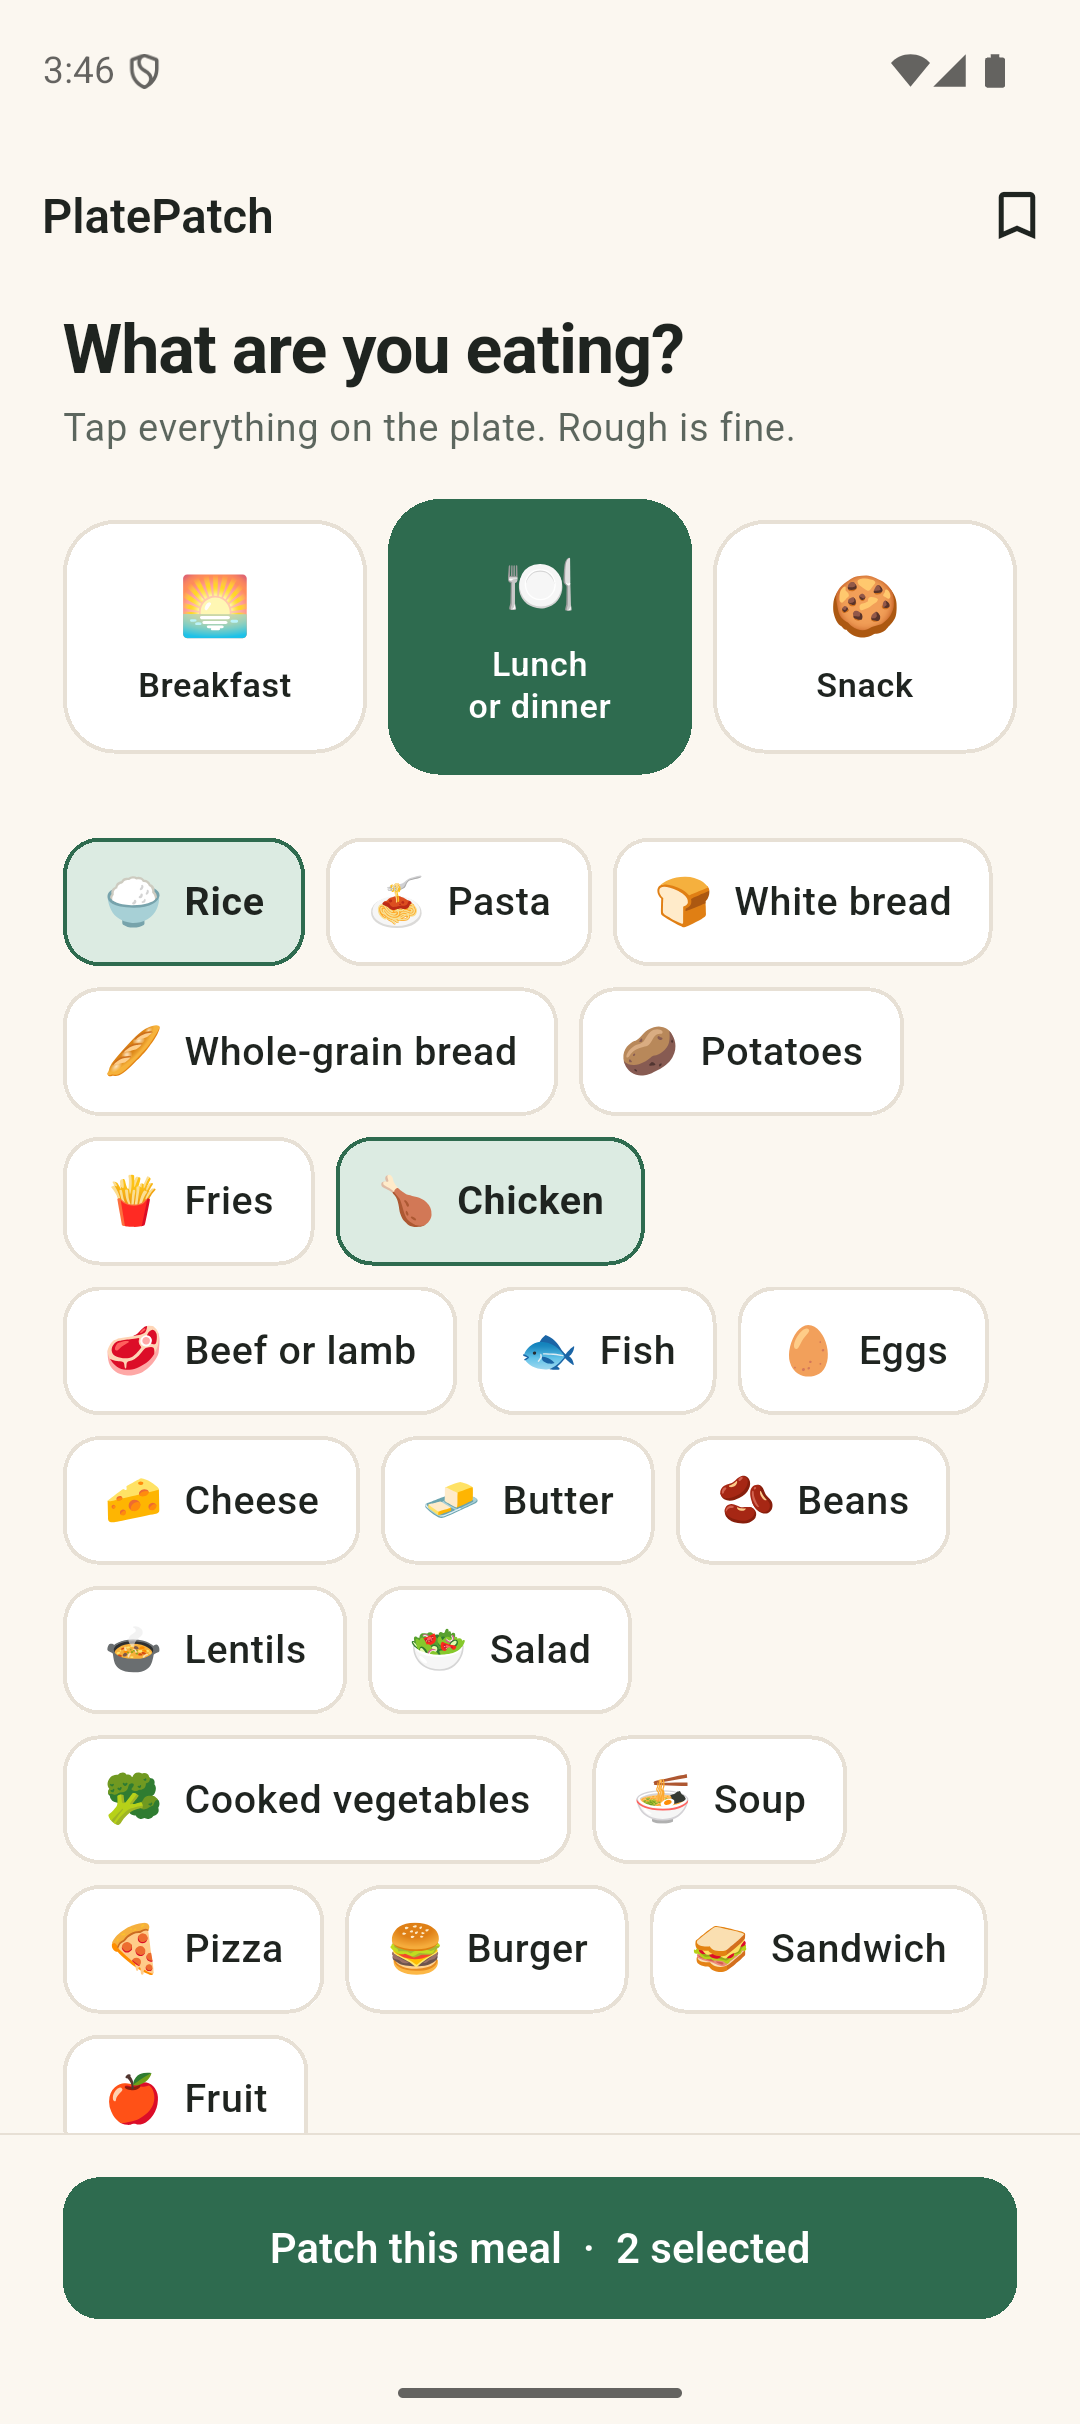
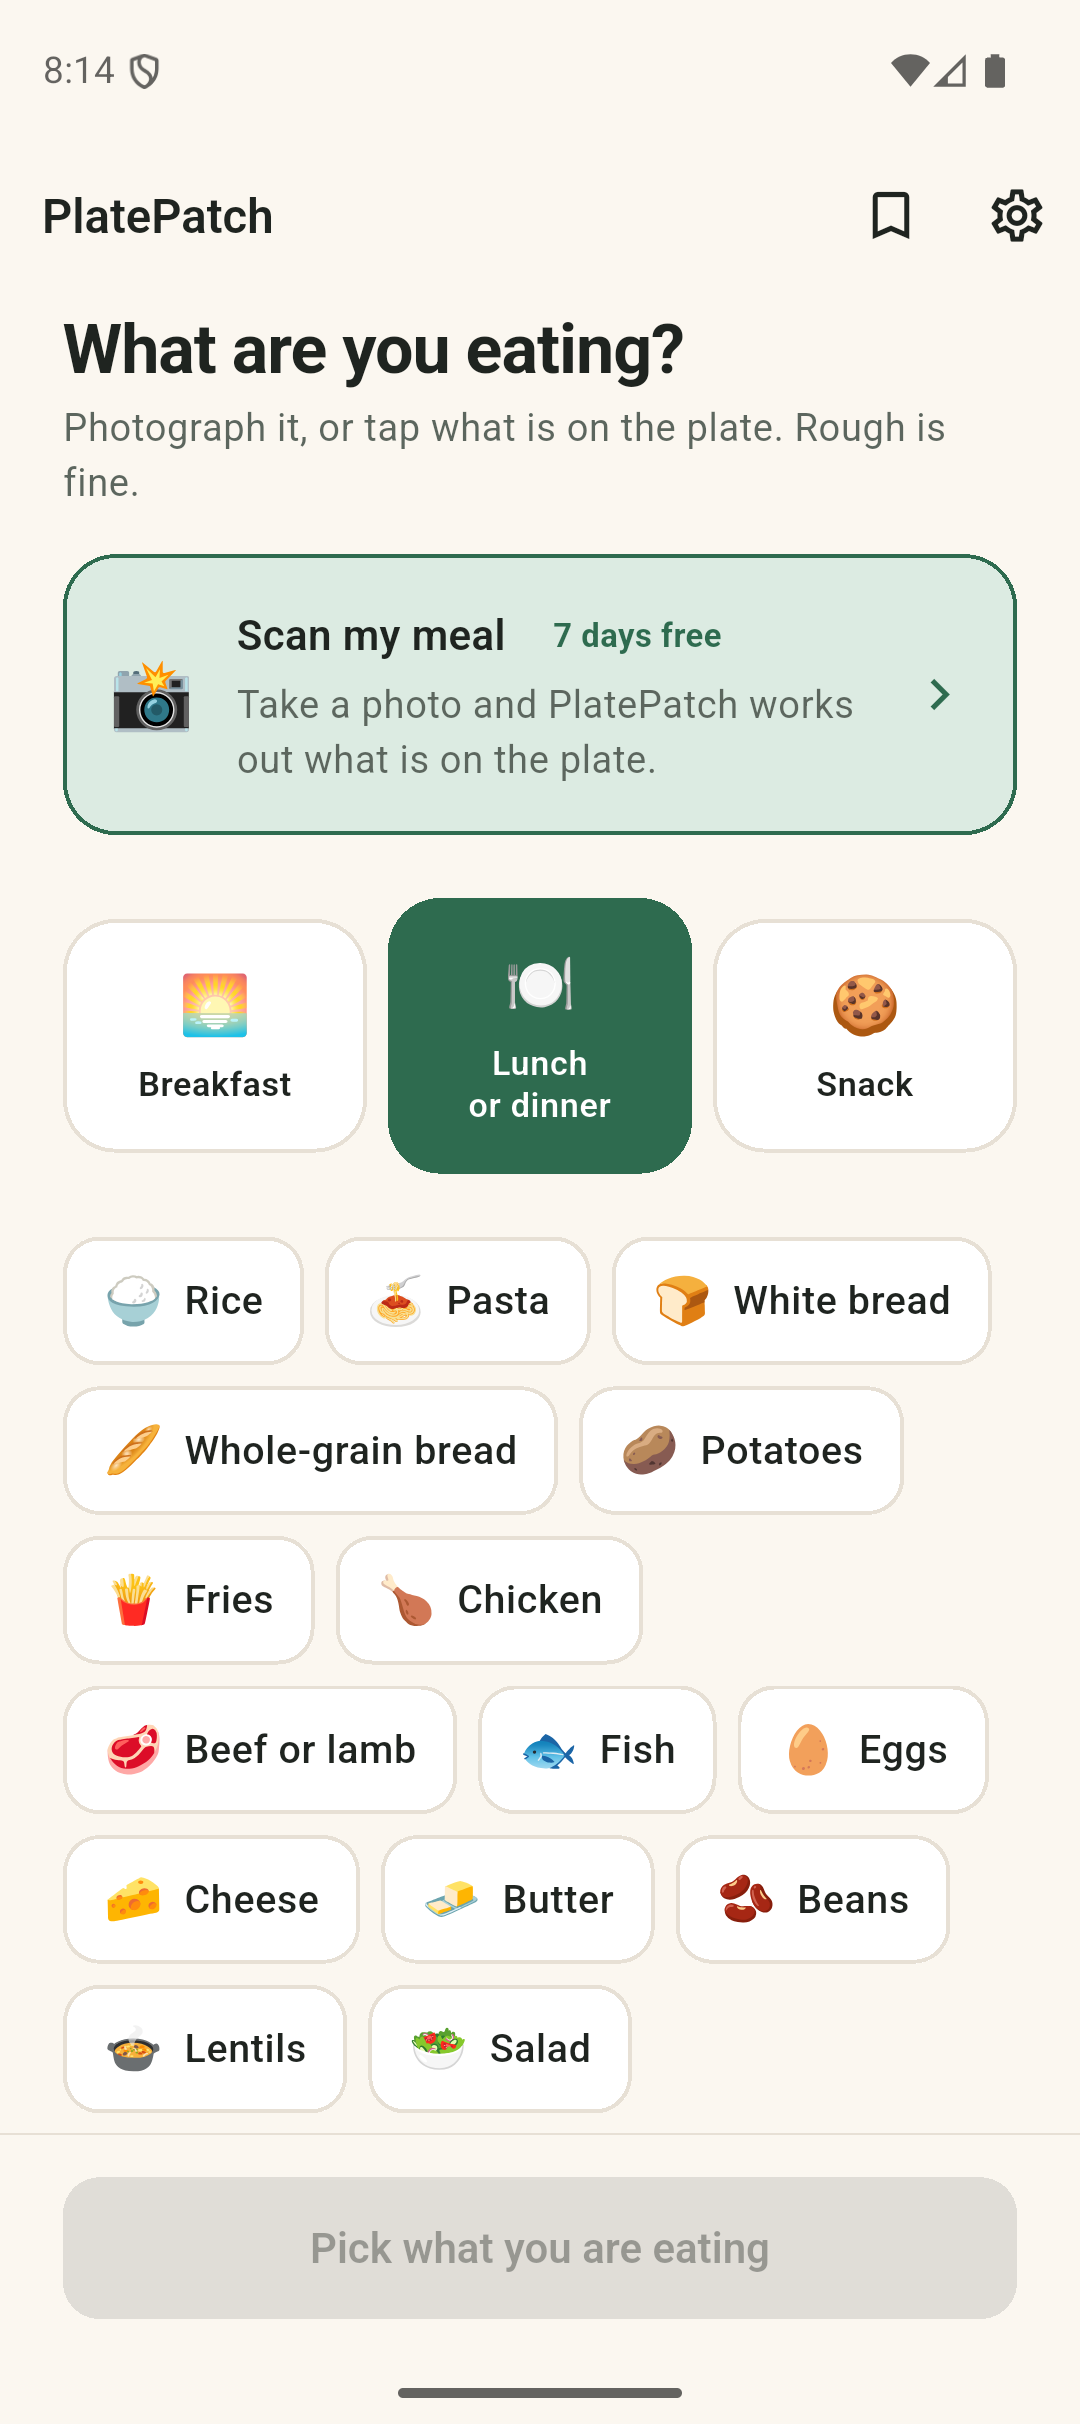
Refresh the screenshots for the app that now exists
The listing screenshots predated the scan flow entirely. Recaptured from a
release build, and the capture script updated: the scan card pushed every food
tile down the screen, so the old tap coordinates were landing on the wrong
things, and it now walks through the camera screen and grants the permission up
front rather than photographing a permission dialog.

Also fixed a gap the screenshots exposed. The trial badge only appeared after
the first scan, because registration is lazy — someone who only ever builds
meals by hand never touches the network, which is deliberate and tested. That
meant a new user saw no mention of the free week on the screen where it matters
most. The card now says "7 days free" before any registration has happened,
which is true and needs no server to say.

208 app tests.

Claude-Session: https://claude.ai/code/session_01VTEewAhGV2WpVMABzNmWUb

Changed region(s): [[0.0611, 0.1547, 0.9472, 0.9592], [0.9167, 0.0619, 0.9778, 0.1238], [0.7944, 0.0619, 0.8556, 0.0928]]

diff --git a/lib/ui/meal_screen.dart b/lib/ui/meal_screen.dart
@@ -128,12 +128,18 @@ class _ScanCard extends ConsumerWidget {
                 Row(
                   children: [
                     Text('Scan my meal', style: Theme.of(context).textTheme.titleMedium),
-                    if (quota != null && quota.trialActive) ...[
+                    // Before the first scan there is no quota yet, because
+                    // registration is lazy — someone who only builds by hand
+                    // never touches the network. The offer is still true, so
+                    // say it without asking the server.
+                    if (quota == null || quota.trialActive) ...[
                       const SizedBox(width: Space.sm),
                       Pill(
-                        label: quota.trialDaysLeft == 1
-                            ? 'Last day free'
-                            : '${quota.trialDaysLeft} days free',
+                        label: quota == null
+                            ? '7 days free'
+                            : quota.trialDaysLeft == 1
+                                ? 'Last day free'
+                                : '${quota.trialDaysLeft} days free',
                       ),
                     ],
                   ],
